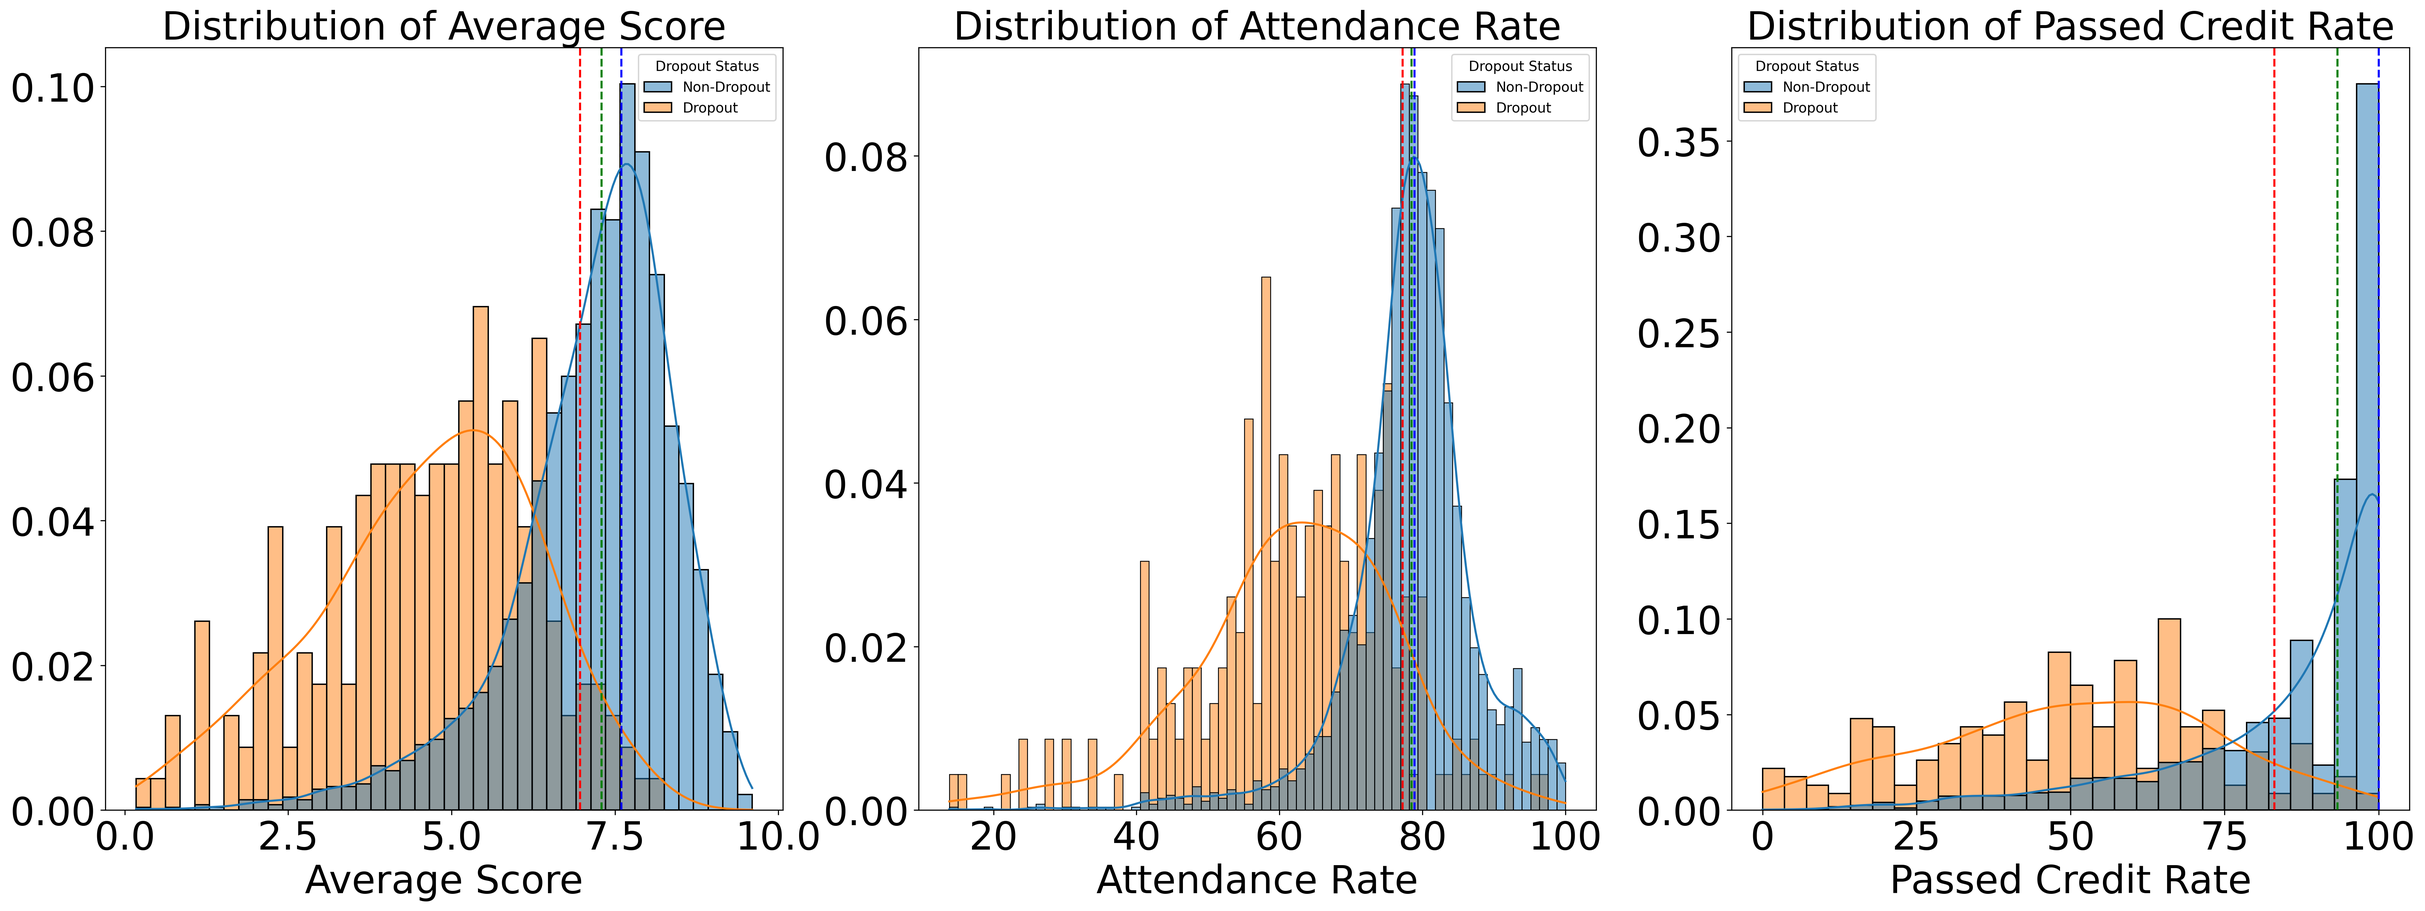
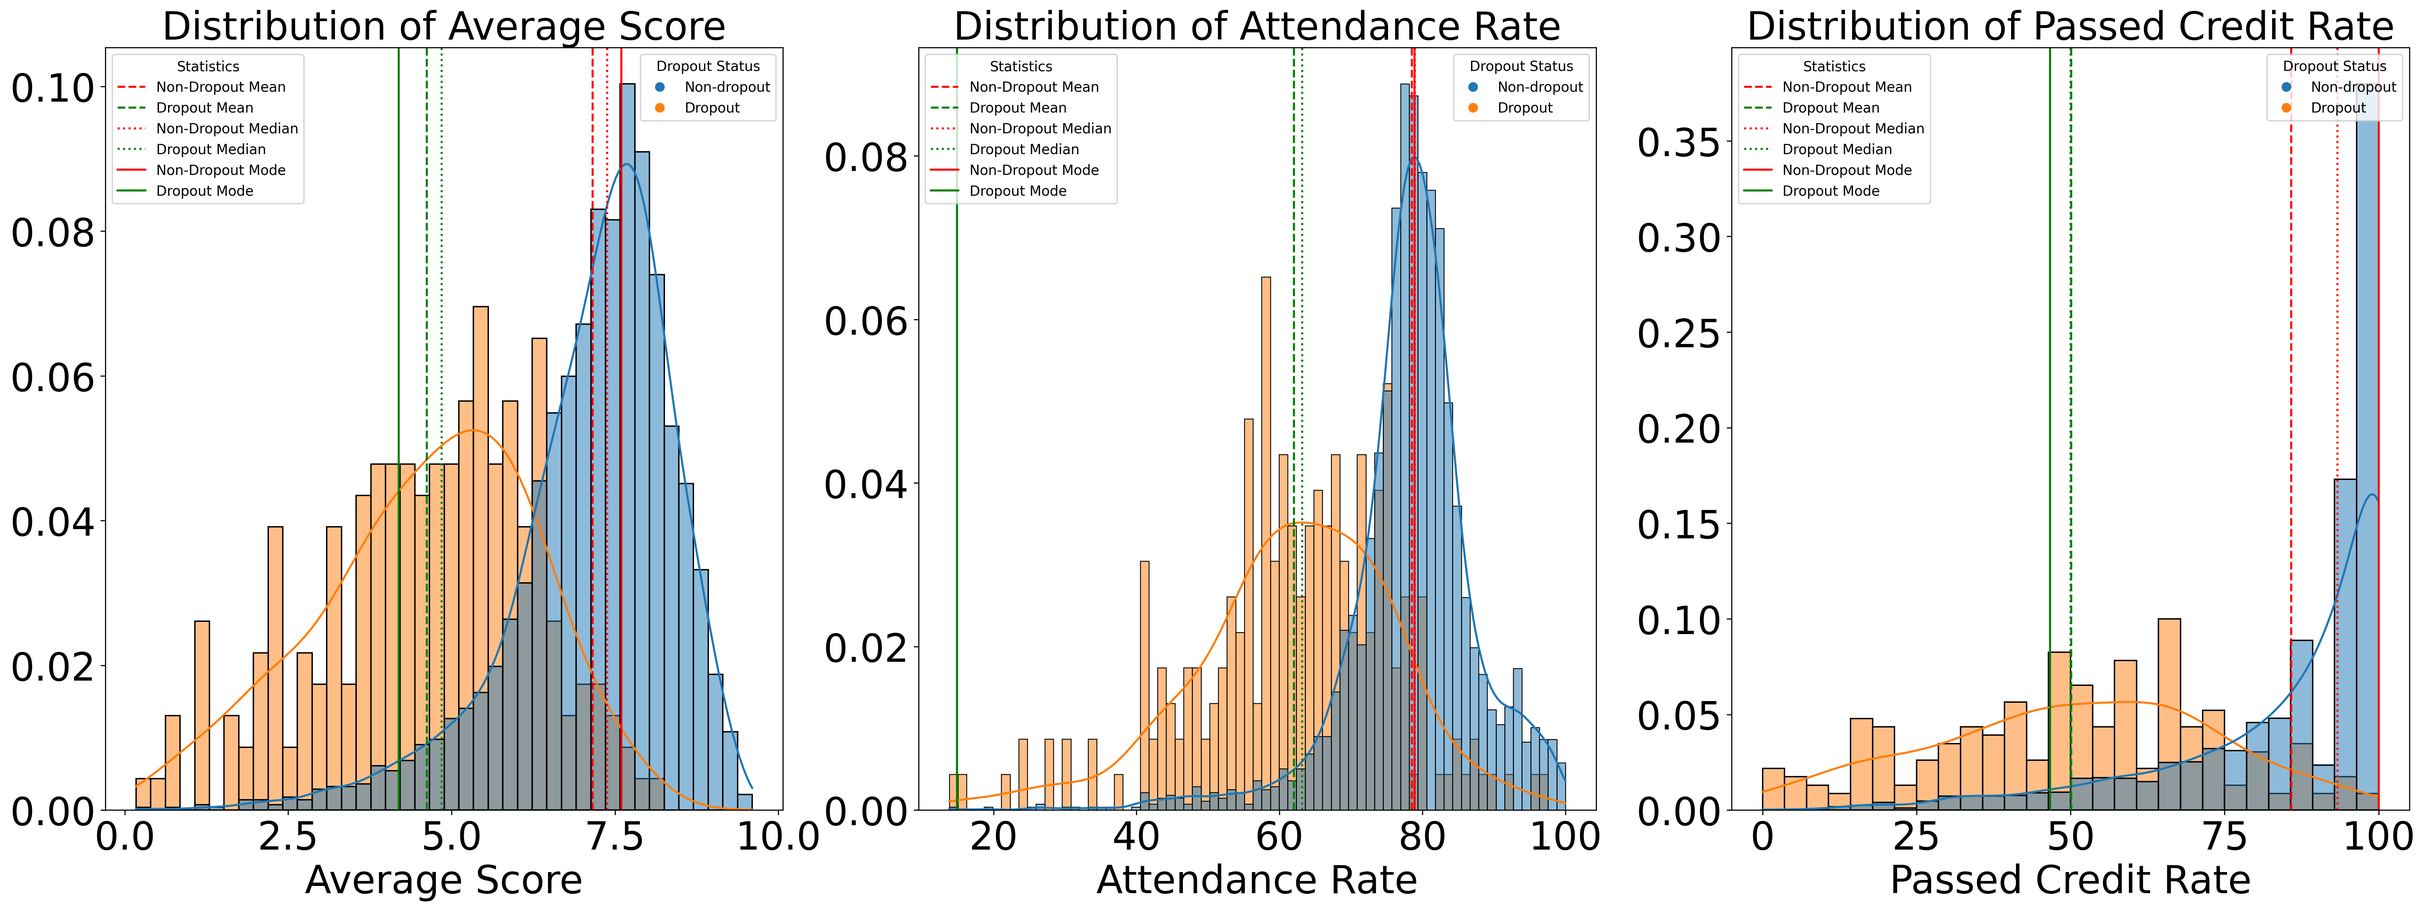
modify density plot

diff --git a/pp/Final_plots/density_plot/plot_density_9_features.py b/pp/Final_plots/density_plot/plot_density_9_features.py
@@ -4,6 +4,8 @@ import seaborn as sns
 from time import time
 import numpy as np
 import re, ast
+from scipy import stats
+import matplotlib.lines as mlines
 
 # Load the dataset
 combine_data = pd.read_csv('sampled_students_data_new.csv')
@@ -75,13 +77,60 @@ df = merged_df[['Dropout Status',
                 'semester_1_attendance_rate', "semester_1_average_score", "semester_1_passed_percent",
                 'semester_2_attendance_rate', "semester_2_average_score", "semester_2_passed_percent",
                 'semester_3_attendance_rate', "semester_3_average_score", "semester_3_passed_percent"]]
-plt.rcParams.update({'font.size': 28})
-plt.rcParams.update({'axes.labelsize': 28})
-plt.rcParams.update({'axes.titlesize': 28})
-plt.rcParams.update({'xtick.labelsize': 28})
-plt.rcParams.update({'ytick.labelsize': 28})
-plt.rcParams.update({'legend.fontsize': 24})
+# plt.rcParams.update({'font.size': 28})
+# plt.rcParams.update({'axes.labelsize': 28})
+# plt.rcParams.update({'axes.titlesize': 28})
+# plt.rcParams.update({'xtick.labelsize': 28})
+# plt.rcParams.update({'ytick.labelsize': 28})
+# plt.rcParams.update({'legend.fontsize': 24})
 
+group_df = df.groupby('Dropout Status')
+
+# Average Score Statistics
+mean_avg1 = group_df['semester_1_average_score'].mean()
+mean_avg2 = group_df['semester_2_average_score'].mean()
+mean_avg3 = group_df['semester_3_average_score'].mean()
+
+median_avg1 = group_df['semester_1_average_score'].median()
+median_avg2 = group_df['semester_2_average_score'].median()
+median_avg3 = group_df['semester_3_average_score'].median()
+
+mode_avg1 = group_df['semester_1_average_score'].apply(lambda x: x.mode()[0])
+mode_avg2 = group_df['semester_2_average_score'].apply(lambda x: x.mode()[0])
+mode_avg3 = group_df['semester_3_average_score'].apply(lambda x: x.mode()[0])
+
+# Attendance Rate Statistics
+mean_att1 = group_df['semester_1_attendance_rate'].mean()
+mean_att2 = group_df['semester_2_attendance_rate'].mean()
+mean_att3 = group_df['semester_3_attendance_rate'].mean()
+
+median_att1 = group_df['semester_1_attendance_rate'].median()
+median_att2 = group_df['semester_2_attendance_rate'].median()
+median_att3 = group_df['semester_3_attendance_rate'].median()
+
+mode_att1 = group_df['semester_1_attendance_rate'].apply(lambda x: x.mode()[0])
+mode_att2 = group_df['semester_2_attendance_rate'].apply(lambda x: x.mode()[0])
+mode_att3 = group_df['semester_3_attendance_rate'].apply(lambda x: x.mode()[0])
+
+# Passed Credit Rate Statistics
+mean_pass1 = group_df['semester_1_passed_percent'].mean()
+mean_pass2 = group_df['semester_2_passed_percent'].mean()
+mean_pass3 = group_df['semester_3_passed_percent'].mean()
+
+median_pass1 = group_df['semester_1_passed_percent'].median()
+median_pass2 = group_df['semester_2_passed_percent'].median()
+median_pass3 = group_df['semester_3_passed_percent'].median()
+
+mode_pass1 = group_df['semester_1_passed_percent'].apply(lambda x: x.mode()[0])
+mode_pass2 = group_df['semester_2_passed_percent'].apply(lambda x: x.mode()[0])
+mode_pass3 = group_df['semester_3_passed_percent'].apply(lambda x: x.mode()[0])
+
+mean_line = [mlines.Line2D([], [], color='red', linestyle='--', label='Non-Dropout Mean'),
+             mlines.Line2D([], [], color='green', linestyle='--', label='Dropout Mean')]
+median_line = [mlines.Line2D([], [], color='red', linestyle=':', label='Non-Dropout Median'),
+               mlines.Line2D([], [], color='green', linestyle=':', label='Dropout Median')]
+mode_line = [mlines.Line2D([], [], color='red', linestyle='-', label='Non-Dropout Mode'),
+             mlines.Line2D([], [], color='green', linestyle='-', label='Dropout Mode')]
 
 fig, axs = plt.subplots(3, 3, figsize=(45, 45))
 sns.histplot(data=df, x="semester_1_average_score", hue="Dropout Status", kde=True, ax=axs[0,0], stat='percent', common_norm=False)
@@ -94,10 +143,20 @@ axs[0,0].set_ylabel("", fontsize=28)
 axs[0,0].tick_params(axis='x', labelsize=28)
 axs[0,0].tick_params(axis='y', labelsize=28)
 axs[0,0].yaxis.set_major_formatter(plt.FuncFormatter(lambda x, _: f'{x / 100:.2f}'))
-axs[0,0].axvline(mean_avg1, color='red', linestyle='--', label=f'Mean: {mean_avg1:.2f}')
-axs[0,0].axvline(median_avg1, color='green', linestyle='--', label=f'Median: {median_avg1:.2f}')
-axs[0,0].axvline(mode_avg1, color='blue', linestyle='--', label=f'Mode: {mode_avg1:.2f}')
 
+palette = sns.color_palette()
+hue_labels = ['Non-dropout', 'Dropout']
+hue_colors = [palette[i] for i in range(len(hue_labels))]
+hue_handles = [mlines.Line2D([], [], color=color, marker='o', linestyle='', label=label)
+               for color, label in zip(hue_colors, hue_labels)]
+
+for status, color in zip(df['Dropout Status'].unique(), ['red', 'green']):               
+    axs[0,0].axvline(mean_avg1, color='red', linestyle='--')
+    axs[0,0].axvline(median_avg1, color='green', linestyle='--')
+    axs[0,0].axvline(mode_avg1, color='blue', linestyle='--')
+axs[0,0].legend(handles=hue_handles, title='Dropout Status', loc='upper right')
+axs[0,0].add_artist(axs[0,0].get_legend())
+axs[0,0].legend(handles=mean_line + median_line + mode_line, title='Statistics', loc='upper left')
 
 sns.histplot(data=df, x="semester_2_average_score", hue="Dropout Status", kde=True, ax=axs[0,1], stat='percent', common_norm=False)
 mean_avg2 = df['semester_2_average_score'].mean()
@@ -109,9 +168,14 @@ axs[0,1].set_ylabel("", fontsize=28)
 axs[0,1].tick_params(axis='x', labelsize=28)
 axs[0,1].tick_params(axis='y', labelsize=28)
 axs[0,1].yaxis.set_major_formatter(plt.FuncFormatter(lambda x, _: f'{x / 100:.2f}'))
-axs[0,1].axvline(mean_avg2, color='red', linestyle='--', label=f'Mean: {mean_avg2:.2f}')
-axs[0,1].axvline(median_avg2, color='green', linestyle='--', label=f'Median: {median_avg2:.2f}')
-axs[0,1].axvline(mode_avg2, color='blue', linestyle='--', label=f'Mode: {mode_avg2:.2f}')
+
+for status, color in zip(df['Dropout Status'].unique(), ['red', 'green']):
+    axs[0,1].axvline(mean_avg2, color='red', linestyle='--')
+    axs[0,1].axvline(median_avg2, color='green', linestyle='--')
+    axs[0,1].axvline(mode_avg2, color='blue', linestyle='--')
+axs[0,1].legend(handles=hue_handles, title='Dropout Status', loc='upper right')
+axs[0,1].add_artist(axs[0,1].get_legend())
+axs[0,1].legend(handles=mean_line + median_line + mode_line, title='Statistics', loc='upper left')
 
 sns.histplot(data=df, x="semester_3_average_score", hue="Dropout Status", kde=True, ax=axs[0,2], stat='percent', common_norm=False)
 mean_avg3 = df['semester_3_average_score'].mean()
@@ -123,9 +187,14 @@ axs[0,2].set_ylabel("", fontsize=28)
 axs[0,2].tick_params(axis='x', labelsize=28)
 axs[0,2].tick_params(axis='y', labelsize=28)
 axs[0,2].yaxis.set_major_formatter(plt.FuncFormatter(lambda x, _: f'{x / 100:.2f}'))
-axs[0,2].axvline(mean_avg3, color='red', linestyle='--', label=f'Mean: {mean_avg3:.2f}')
-axs[0,2].axvline(median_avg3, color='green', linestyle='--', label=f'Median: {median_avg3:.2f}')
-axs[0,2].axvline(mode_avg3, color='blue', linestyle='--', label=f'Mode: {mode_avg3:.2f}')
+
+for status, color in zip(df['Dropout Status'].unique(), ['red', 'green']):
+    axs[0,2].axvline(mean_avg3, color='red', linestyle='--')
+    axs[0,2].axvline(median_avg3, color='green', linestyle='--')
+    axs[0,2].axvline(mode_avg3, color='blue', linestyle='--')
+axs[0,2].legend(handles=hue_handles, title='Dropout Status', loc='upper right')
+axs[0,2].add_artist(axs[0,2].get_legend())
+axs[0,2].legend(handles=mean_line + median_line + mode_line, title='Statistics', loc='upper left')
 
 sns.histplot(data=df, x="semester_1_attendance_rate", hue="Dropout Status", kde=True, ax=axs[1,0], stat='percent', common_norm=False)
 mean_att1 = df['semester_1_attendance_rate'].mean()
@@ -137,9 +206,14 @@ axs[1,0].set_ylabel("", fontsize=28)
 axs[1,0].tick_params(axis='x', labelsize=28)
 axs[1,0].tick_params(axis='y', labelsize=28)
 axs[1,0].yaxis.set_major_formatter(plt.FuncFormatter(lambda x, _: f'{x / 100:.2f}'))
-axs[1,0].axvline(mean_att1, color='red', linestyle='--', label=f'Mean: {mean_att1:.2f}')
-axs[1,0].axvline(median_att1, color='green', linestyle='--', label=f'Median: {median_att1:.2f}')
-axs[1,0].axvline(mode_att1, color='blue', linestyle='--', label=f'Mode: {mode_att1:.2f}')
+
+for status, color in zip(df['Dropout Status'].unique(), ['red', 'green']):
+    axs[1,0].axvline(mean_att1, color='red', linestyle='--')
+    axs[1,0].axvline(median_att1, color='green', linestyle='--')
+    axs[1,0].axvline(mode_att1, color='blue', linestyle='--')
+axs[1,0].legend(handles=hue_handles, title='Dropout Status', loc='upper right')
+axs[1,0].add_artist(axs[1,0].get_legend())
+axs[1,0].legend(handles=mean_line + median_line + mode_line, title='Statistics', loc='upper left')
 
 sns.histplot(data=df, x="semester_2_attendance_rate", hue="Dropout Status", kde=True, ax=axs[1,1], stat='percent', common_norm=False)
 mean_att2 = df['semester_2_attendance_rate'].mean()
@@ -151,9 +225,14 @@ axs[1,1].set_ylabel("", fontsize=28)
 axs[1,1].tick_params(axis='x', labelsize=28)
 axs[1,1].tick_params(axis='y', labelsize=28)
 axs[1,1].yaxis.set_major_formatter(plt.FuncFormatter(lambda x, _: f'{x / 100:.2f}'))
-axs[1,1].axvline(mean_att2, color='red', linestyle='--', label=f'Mean: {mean_att2:.2f}')
-axs[1,1].axvline(median_att2, color='green', linestyle='--', label=f'Median: {median_att2:.2f}')
-axs[1,1].axvline(mode_att2, color='blue', linestyle='--', label=f'Mode: {mode_att2:.2f}')
+
+for status, color in zip(df['Dropout Status'].unique(), ['red', 'green']):
+    axs[1,1].axvline(mean_att2, color='red', linestyle='--')
+    axs[1,1].axvline(median_att2, color='green', linestyle='--')
+    axs[1,1].axvline(mode_att2, color='blue', linestyle='--')
+axs[1,1].legend(handles=hue_handles, title='Dropout Status', loc='upper right')
+axs[1,1].add_artist(axs[1,1].get_legend())
+axs[1,1].legend(handles=mean_line + median_line + mode_line, title='Statistics', loc='upper left')
 
 sns.histplot(data=df, x="semester_3_attendance_rate", hue="Dropout Status", kde=True, ax=axs[1,2], stat='percent', common_norm=False)
 mean_att3 = df['semester_3_attendance_rate'].mean()
@@ -165,9 +244,14 @@ axs[1,2].set_ylabel("", fontsize=28)
 axs[1,2].tick_params(axis='x', labelsize=28)
 axs[1,2].tick_params(axis='y', labelsize=28)
 axs[1,2].yaxis.set_major_formatter(plt.FuncFormatter(lambda x, _: f'{x / 100:.2f}'))
-axs[1,2].axvline(mean_att3, color='red', linestyle='--', label=f'Mean: {mean_att3:.2f}')
-axs[1,2].axvline(median_att3, color='green', linestyle='--', label=f'Median: {median_att3:.2f}')
-axs[1,2].axvline(mode_att3, color='blue', linestyle='--', label=f'Mode: {mode_att3:.2f}')
+
+for status, color in zip(df['Dropout Status'].unique(), ['red', 'green']):
+    axs[1,2].axvline(mean_att3, color='red', linestyle='--')
+    axs[1,2].axvline(median_att3, color='green', linestyle='--')
+    axs[1,2].axvline(mode_att3, color='blue', linestyle='--')
+axs[1,2].legend(handles=hue_handles, title='Dropout Status', loc='upper right')
+axs[1,2].add_artist(axs[1,2].get_legend())
+axs[1,2].legend(handles=mean_line + median_line + mode_line, title='Statistics', loc='upper left')
 
 sns.histplot(data=df, x="semester_1_passed_percent", hue="Dropout Status", kde=True, ax=axs[2,0], stat='percent', common_norm=False)
 mean_pass1 = df['semester_1_passed_percent'].mean()
@@ -179,9 +263,14 @@ axs[2,0].set_ylabel("", fontsize=28)
 axs[2,0].tick_params(axis='x', labelsize=28)
 axs[2,0].tick_params(axis='y', labelsize=28)
 axs[2,0].yaxis.set_major_formatter(plt.FuncFormatter(lambda x, _: f'{x / 100:.2f}'))
-axs[2,0].axvline(mean_pass1, color='red', linestyle='--', label=f'Mean: {mean_pass1:.2f}')
-axs[2,0].axvline(median_pass1, color='green', linestyle='--', label=f'Median: {median_pass1:.2f}')
-axs[2,0].axvline(mode_pass1, color='blue', linestyle='--', label=f'Mode: {mode_pass1:.2f}')
+
+for status, color in zip(df['Dropout Status'].unique(), ['red', 'green']):
+    axs[2,0].axvline(mean_pass1, color='red', linestyle='--')
+    axs[2,0].axvline(median_pass1, color='green', linestyle='--')
+    axs[2,0].axvline(mode_pass1, color='blue', linestyle='--')
+axs[2,0].legend(handles=hue_handles, title='Dropout Status', loc='upper right')
+axs[2,0].add_artist(axs[2,0].get_legend())
+axs[2,0].legend(handles=mean_line + median_line + mode_line, title='Statistics', loc='upper left')
 
 sns.histplot(data=df, x="semester_2_passed_percent", hue="Dropout Status", kde=True, ax=axs[2,1], stat='percent', common_norm=False)
 mean_pass2 = df['semester_2_passed_percent'].mean()
@@ -193,9 +282,14 @@ axs[2,1].set_ylabel("", fontsize=28)
 axs[2,1].tick_params(axis='x', labelsize=28)
 axs[2,1].tick_params(axis='y', labelsize=28)
 axs[2,1].yaxis.set_major_formatter(plt.FuncFormatter(lambda x, _: f'{x / 100:.2f}'))
-axs[2,1].axvline(mean_pass2, color='red', linestyle='--', label=f'Mean: {mean_pass2:.2f}')
-axs[2,1].axvline(median_pass2, color='green', linestyle='--', label=f'Median: {median_pass2:.2f}')
-axs[2,1].axvline(mode_pass2, color='blue', linestyle='--', label=f'Mode: {mode_pass2:.2f}')
+
+for status, color in zip(df['Dropout Status'].unique(), ['red', 'green']):
+    axs[2,1].axvline(mean_pass2, color='red', linestyle='--')
+    axs[2,1].axvline(median_pass2, color='green', linestyle='--')
+    axs[2,1].axvline(mode_pass2, color='blue', linestyle='--')
+axs[2,1].legend(handles=hue_handles, title='Dropout Status', loc='upper right')
+axs[2,1].add_artist(axs[2,1].get_legend())
+axs[2,1].legend(handles=mean_line + median_line + mode_line, title='Statistics', loc='upper left')
 
 sns.histplot(data=df, x="semester_3_passed_percent", hue="Dropout Status", kde=True, ax=axs[2,2], stat='percent', common_norm=False)
 mean_pass3 = df['semester_3_passed_percent'].mean()
@@ -207,9 +301,14 @@ axs[2,2].set_ylabel("", fontsize=28)
 axs[2,2].tick_params(axis='x', labelsize=28)
 axs[2,2].tick_params(axis='y', labelsize=28)
 axs[2,2].yaxis.set_major_formatter(plt.FuncFormatter(lambda x, _: f'{x / 100:.2f}'))
-axs[2,2].axvline(mean_pass3, color='red', linestyle='--', label=f'Mean: {mean_pass3:.2f}')
-axs[2,2].axvline(median_pass3, color='green', linestyle='--', label=f'Median: {median_pass3:.2f}')
-axs[2,2].axvline(mode_pass3, color='blue', linestyle='--', label=f'Mode: {mode_pass3:.2f}')
+
+for status, color in zip(df['Dropout Status'].unique(), ['red', 'green']):
+    axs[2,2].axvline(mean_pass3, color='red', linestyle='--')
+    axs[2,2].axvline(median_pass3, color='green', linestyle='--')
+    axs[2,2].axvline(mode_pass3, color='blue', linestyle='--')
+axs[2,2].legend(handles=hue_handles, title='Dropout Status', loc='upper right')
+axs[2,2].add_artist(axs[2,2].get_legend())
+axs[2,2].legend(handles=mean_line + median_line + mode_line, title='Statistics', loc='upper left')
 
 # Save the figure
 output_path = 'Distribution of Average Score, Attendance Rate and Passed Credit Rate through semesters.png'

diff --git a/pp/Final_plots/density_plot/plot_density_3_features.py b/pp/Final_plots/density_plot/plot_density_3_features.py
@@ -5,6 +5,7 @@ from time import time
 import numpy as np
 import re, ast
 from scipy import stats
+import matplotlib.lines as mlines
 
 # Load the dataset
 combine_data = pd.read_csv('sampled_students_data_new.csv')
@@ -86,51 +87,82 @@ df = merged_df[['Dropout Status',
                 'average_score',
                 'passed_percent']]
 
+group_df = df.groupby('Dropout Status')
+
+# Average Score statistics
+mean_avg = group_df['average_score'].mean()
+median_avg = group_df['average_score'].median()
+mode_avg = group_df['average_score'].apply(lambda x: x.mode()[0])
+
+# Attendance Rate statistics
+mean_att = group_df['attendance_rate'].mean()
+median_att = group_df['attendance_rate'].median()
+mode_att = group_df['attendance_rate'].apply(lambda x: x.mode()[0])
+
+# Passed Credit Rate statistics
+mean_pass = group_df['passed_percent'].mean()
+median_pass = group_df['passed_percent'].median()
+mode_pass = group_df['passed_percent'].apply(lambda x: x.mode()[0])
+
+mean_line = [mlines.Line2D([], [], color='red', linestyle='--', label='Non-Dropout Mean'),
+             mlines.Line2D([], [], color='green', linestyle='--', label='Dropout Mean')]
+median_line = [mlines.Line2D([], [], color='red', linestyle=':', label='Non-Dropout Median'),
+               mlines.Line2D([], [], color='green', linestyle=':', label='Dropout Median')]
+mode_line = [mlines.Line2D([], [], color='red', linestyle='-', label='Non-Dropout Mode'),
+             mlines.Line2D([], [], color='green', linestyle='-', label='Dropout Mode')]
+
 fig, axs = plt.subplots(1, 3, figsize=(30, 10))
 sns.histplot(data=df, x="average_score", hue="Dropout Status", kde=True, ax=axs[0], stat='percent', common_norm=False)
-mean_avg = df['average_score'].mean()
-median_avg = df['average_score'].median()
-mode_avg = df['average_score'].mode()[0]
-
 axs[0].set_title("Distribution of Average Score", fontsize=28)
 axs[0].set_xlabel("Average Score", fontsize=28)
 axs[0].set_ylabel("", fontsize=28)
 axs[0].tick_params(axis='x', labelsize=28)
 axs[0].tick_params(axis='y', labelsize=28)
 axs[0].yaxis.set_major_formatter(plt.FuncFormatter(lambda x, _: f'{x / 100:.2f}'))
-axs[0].axvline(mean_avg, color='red', linestyle='--', label=f'Mean: {mean_avg:.2f}')
-axs[0].axvline(median_avg, color='green', linestyle='--', label=f'Median: {median_avg:.2f}')
-axs[0].axvline(mode_avg, color='blue', linestyle='--', label=f'Mode: {mode_avg:.2f}')
+
+palette = sns.color_palette()
+hue_labels = ['Non-dropout', 'Dropout']
+hue_colors = [palette[i] for i in range(len(hue_labels))]
+hue_handles = [mlines.Line2D([], [], color=color, marker='o', linestyle='', label=label)
+               for color, label in zip(hue_colors, hue_labels)]
+
+for status, color in zip(df['Dropout Status'].unique(), ['red', 'green']):
+    axs[0].axvline(mean_avg[status], color=color, linestyle='--')
+    axs[0].axvline(median_avg[status], color=color, linestyle=':')
+    axs[0].axvline(mode_avg[status], color=color, linestyle='-')
+axs[0].legend(handles=hue_handles, title='Dropout Status', loc='upper right')
+axs[0].add_artist(axs[0].get_legend())
+axs[0].legend(handles=mean_line + median_line + mode_line, title='Statistics', loc='upper left')
 
 sns.histplot(data=df, x="attendance_rate", hue="Dropout Status", kde=True, ax=axs[1], stat='percent', common_norm=False)
-mean_att = df['attendance_rate'].mean()
-median_att = df['attendance_rate'].median()
-mode_att = df['attendance_rate'].mode()[0]
-
 axs[1].set_title("Distribution of Attendance Rate", fontsize=28)
 axs[1].set_xlabel("Attendance Rate", fontsize=28)
 axs[1].set_ylabel("", fontsize=28)
 axs[1].tick_params(axis='x', labelsize=28)
 axs[1].tick_params(axis='y', labelsize=28)
 axs[1].yaxis.set_major_formatter(plt.FuncFormatter(lambda x, _: f'{x / 100:.2f}'))
-axs[1].axvline(mean_att, color='red', linestyle='--', label=f'Mean: {mean_att:.2f}')
-axs[1].axvline(median_att, color='green', linestyle='--', label=f'Median: {median_att:.2f}')
-axs[1].axvline(mode_att, color='blue', linestyle='--', label=f'Mode: {mode_att:.2f}')
+for status, color in zip(df['Dropout Status'].unique(), ['red', 'green']):
+    axs[1].axvline(mean_att[status], color=color, linestyle='--')
+    axs[1].axvline(median_att[status], color=color, linestyle=':')
+    axs[1].axvline(mode_att[status], color=color, linestyle='-')
+axs[1].legend(handles=hue_handles, title='Dropout Status', loc='upper right')
+axs[1].add_artist(axs[1].get_legend())
+axs[1].legend(handles=mean_line + median_line + mode_line, title='Statistics', loc='upper left')
 
 sns.histplot(data=df, x="passed_percent", hue="Dropout Status", kde=True, ax=axs[2], stat='percent', common_norm=False)
-mean_pass = df['passed_percent'].mean()
-median_pass = df['passed_percent'].median()
-mode_pass = df['passed_percent'].mode()[0]
-
 axs[2].set_title("Distribution of Passed Credit Rate", fontsize=28)
 axs[2].set_xlabel("Passed Credit Rate", fontsize=28)
 axs[2].set_ylabel("", fontsize=28)
 axs[2].tick_params(axis='x', labelsize=28)
 axs[2].tick_params(axis='y', labelsize=28)
 axs[2].yaxis.set_major_formatter(plt.FuncFormatter(lambda x, _: f'{x / 100:.2f}'))
-axs[2].axvline(mean_pass, color='red', linestyle='--', label=f'Mean: {mean_pass:.2f}')
-axs[2].axvline(median_pass, color='green', linestyle='--', label=f'Median: {median_pass:.2f}')
-axs[2].axvline(mode_pass, color='blue', linestyle='--', label=f'Mode: {mode_pass:.2f}')
+for status, color in zip(df['Dropout Status'].unique(), ['red', 'green']):
+    axs[2].axvline(mean_pass[status], color=color, linestyle='--')
+    axs[2].axvline(median_pass[status], color=color, linestyle=':')
+    axs[2].axvline(mode_pass[status], color=color, linestyle='-')
+axs[2].legend(handles=hue_handles, title='Dropout Status', loc='upper right')
+axs[2].add_artist(axs[2].get_legend())
+axs[2].legend(handles=mean_line + median_line + mode_line, title='Statistics', loc='upper left')
 
 # Save the figure
 output_path = 'Distribution of Average Score, Attendance Rate and Passed Credit Rate.png'
